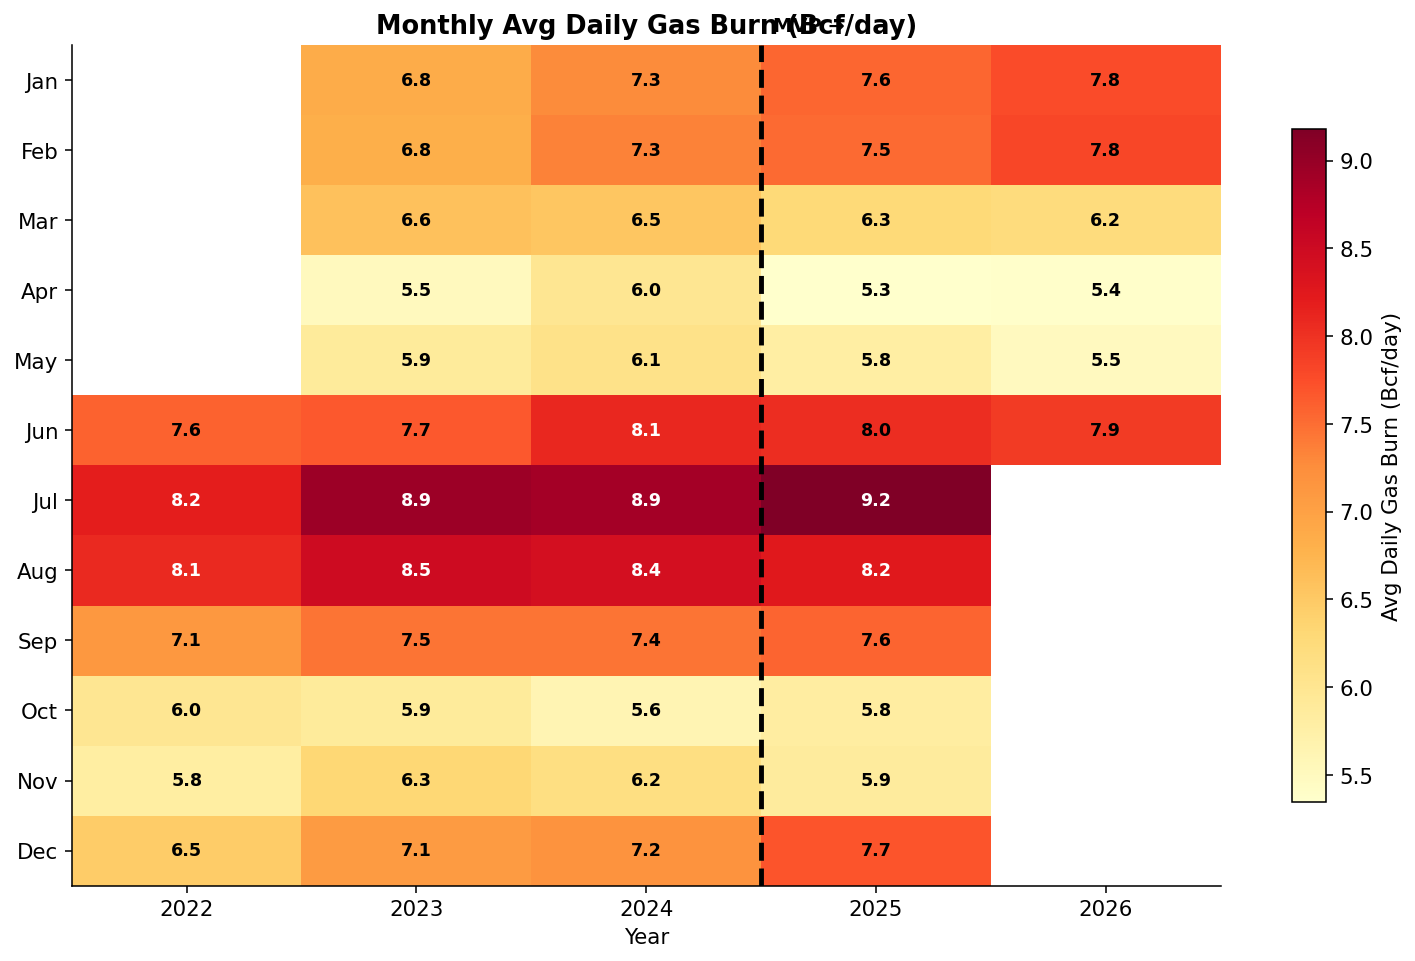
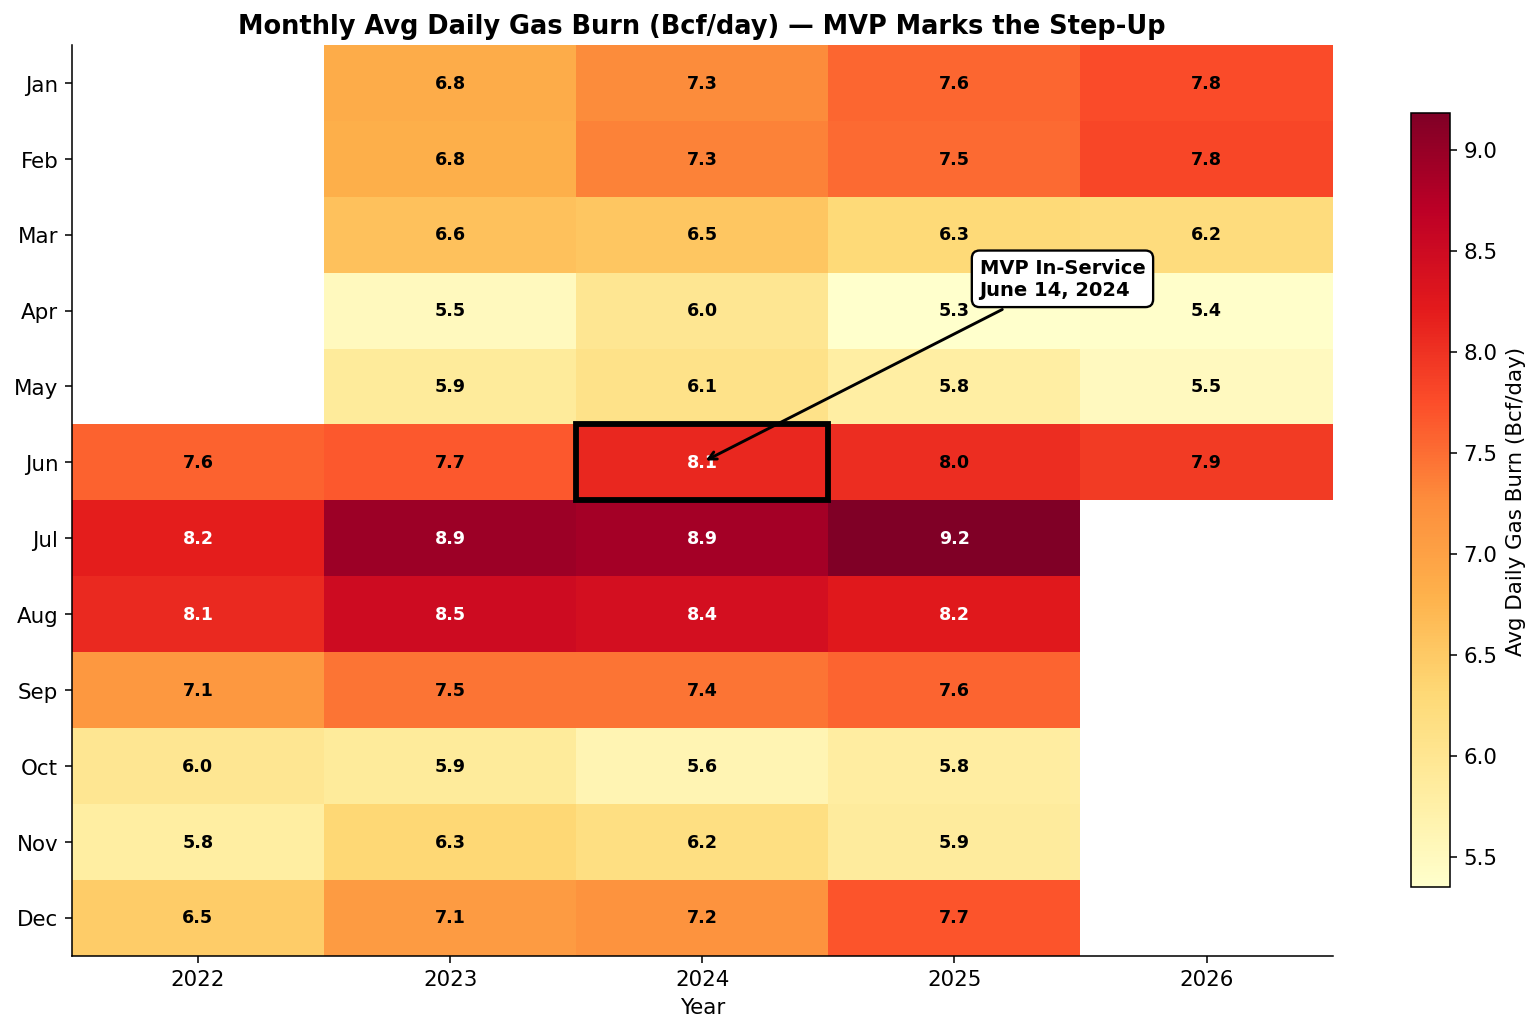
Conclusion_Update

diff --git a/content/reports/pjm-gas-power-2022-2026.md b/content/reports/pjm-gas-power-2022-2026.md
@@ -1,6 +1,6 @@
 ---
-title: "The Gas-Power Nexus in Appalachia: What MVP Did to PJM"
-subtitle: "PJM electricity demand is the single strongest predictor of Appalachian gas burn. The MVP in-service date is the structural break."
+title: "PJM Load Decides Appalachian Gas: A Structural Break After MVP"
+subtitle: "Daily demand explains 64% of Appalachian gas burn. After MVP, the fit got tighter, the swings got wider, and the price stopped mattering."
 date: "2026-06-24"
 tags: ["Gas", "Power"]
 featured: true
@@ -15,7 +15,7 @@ summary: "1,466 daily observations from June 2022 to June 2026. A simple regress
 
 ## The Setup
 
-The dataset is 1,466 daily observations covering PJM hourly generation aggregated to days, PJM daily demand, Henry Hub spot, and East-region weekly storage forward-filled to daily. The frame is what an EQT trader sitting in Appalachia needs to know about how PJM power demand translates into local gas takeaway. The MVP pipeline in-service date splits the sample into 734 pre-MVP days and 732 post-MVP days.
+The dataset is 1,466 daily observations covering PJM hourly generation aggregated to days, PJM daily demand, Henry Hub spot, and East-region weekly storage forward-filled to daily. The frame is how PJM power demand translates into Appalachian gas takeaway. The MVP pipeline in-service date splits the sample into 734 pre-MVP days and 732 post-MVP days.
 
 ## Demand Is The Signal
 
@@ -59,6 +59,6 @@ The Henry Hub scatter is the negative result that matters. The dispatch is on lo
 
 Pearson r = 0.115, R² = 0.013. In the full model the price coefficient is small and negative, consistent with a modest substitution effect at high prices that does not show up in the bivariate fit.
 
-## So-What For An EQT Trader
+## So-What For An Appalachian Gas Trader
 
-PJM daily demand at 6.99 Bcf/d average burn is the dominant short-term call on Appalachian gas. EQT produces roughly 5.5 Bcf/d. Watching PJM demand forecasts gives a real-time read on local takeaway. The summer-to-winter seasonal swing is 1.47 Bcf/d. After MVP, expect higher mean burn and wider daily swings. The trade is to use PJM load forecasts as a leading indicator, not Henry Hub.
+PJM daily demand at 6.99 Bcf/d average burn is the dominant short-term call on Appalachian gas. EQT produces roughly 5.5 Bcf/d, so PJM gas burn alone clears more than EQT's entire daily output on most days. Watching PJM demand forecasts gives a real-time read on local takeaway. The summer-to-winter seasonal swing is 1.47 Bcf/d. After MVP, expect higher mean burn and wider daily swings. The trade is to use PJM load forecasts as a leading indicator, not Henry Hub.
